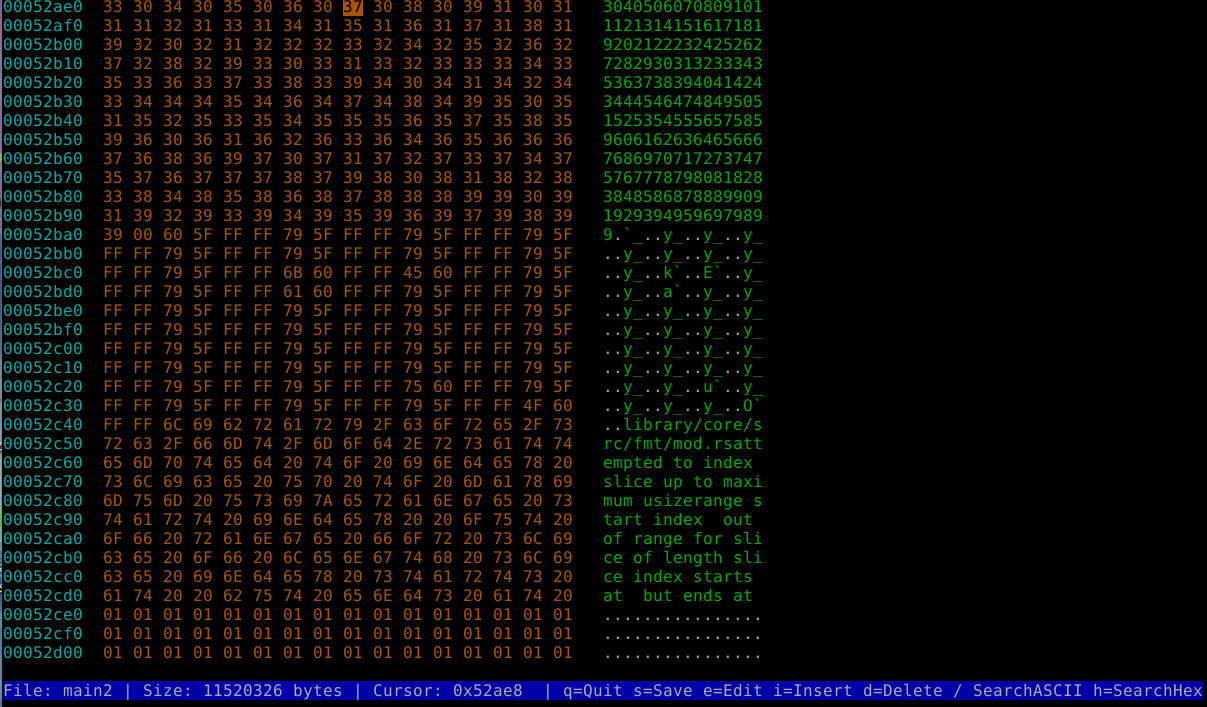
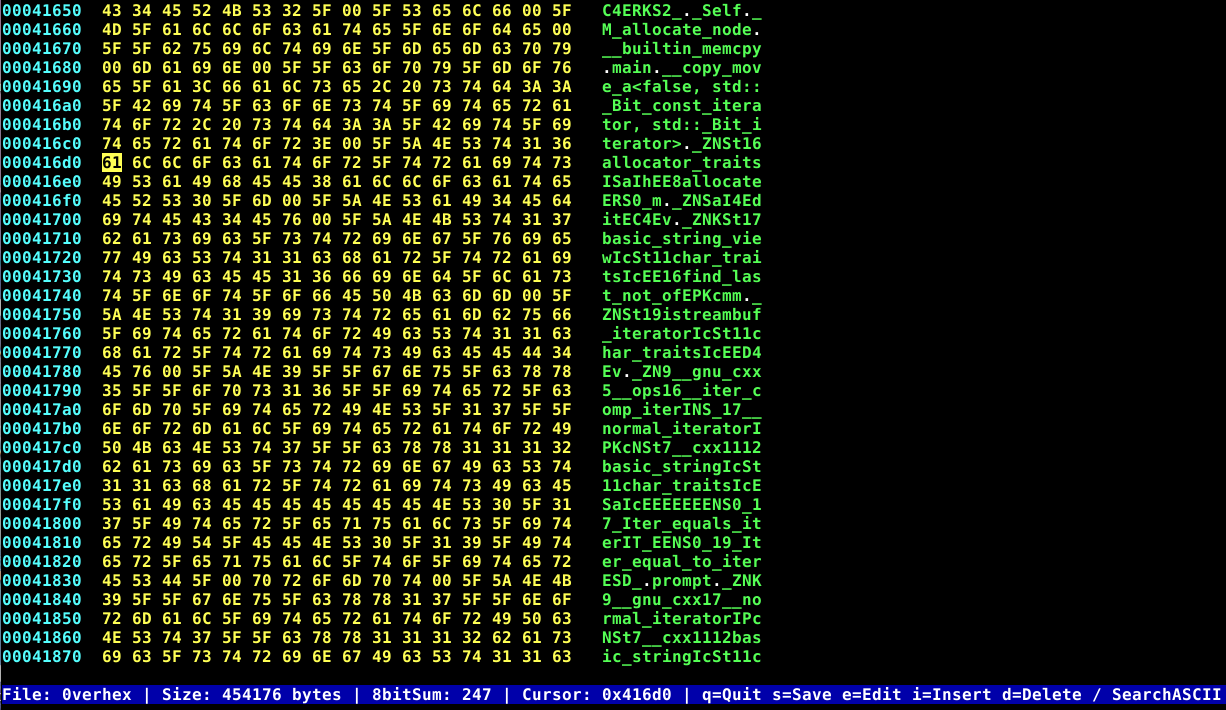
use bold colours

Changed region(s): [[0.0, 0.0, 0.6437, 0.9335], [0.0, 0.9646, 1.0, 0.9958]]

diff --git a/main.cpp b/main.cpp
@@ -297,21 +297,21 @@ void drawHexView(WINDOW *win, const std::vector<unsigned char> &buffer, size_t s
     size_t offset = start + row * bytesPerLine;
     if (offset >= buffer.size()) break;
     // Offset column (cyan)
-    wattron(win, COLOR_PAIR(1));
+    wattron(win, COLOR_PAIR(1) | A_BOLD);
     mvwprintw(win, row, 0, "%08zx", offset);
-    wattroff(win, COLOR_PAIR(1));
+    wattroff(win, COLOR_PAIR(1) | A_BOLD);
     wprintw(win, "  ");
     // Hex bytes (yellow, highlight cursor)
     for (size_t i = 0; i < bytesPerLine; ++i) {
       if (offset + i < buffer.size()) {
         if (offset + i == cursor) {
-          wattron(win, A_REVERSE | COLOR_PAIR(2));
+          wattron(win, A_REVERSE | COLOR_PAIR(2) | A_BOLD);
           mvwprintw(win, row, 10 + i * 3, "%02X", buffer[offset + i]);
-          wattroff(win, A_REVERSE | COLOR_PAIR(2));
+          wattroff(win, A_REVERSE | COLOR_PAIR(2) | A_BOLD);
         } else {
-          wattron(win, COLOR_PAIR(2));
+          wattron(win, COLOR_PAIR(2) | A_BOLD);
           mvwprintw(win, row, 10 + i * 3, "%02X", buffer[offset + i]);
-          wattroff(win, COLOR_PAIR(2));
+          wattroff(win, COLOR_PAIR(2) | A_BOLD);
         }
       } else {
         mvwprintw(win, row, 10 + i * 3, "  ");
@@ -322,13 +322,13 @@ void drawHexView(WINDOW *win, const std::vector<unsigned char> &buffer, size_t s
       if (offset + i < buffer.size()) {
         unsigned char c = buffer[offset + i];
         if (std::isprint(c)) {
-          wattron(win, COLOR_PAIR(3));
+          wattron(win, COLOR_PAIR(3) | A_BOLD);
           mvwaddch(win, row, 10 + bytesPerLine * 3 + 2 + i, c);
-          wattroff(win, COLOR_PAIR(3));
+          wattroff(win, COLOR_PAIR(3) | A_BOLD);
         } else {
-          wattron(win, COLOR_PAIR(4));
+          wattron(win, COLOR_PAIR(4) | A_BOLD);
           mvwaddch(win, row, 10 + bytesPerLine * 3 + 2 + i, '.');
-          wattroff(win, COLOR_PAIR(4));
+          wattroff(win, COLOR_PAIR(4) | A_BOLD);
         }
       }
     }
@@ -339,9 +339,9 @@ void drawHexView(WINDOW *win, const std::vector<unsigned char> &buffer, size_t s
 // Draw status bar (white on blue)
 void drawStatus(WINDOW *status, const std::vector<unsigned char> &buffer, const std::string &filename, size_t cursor, size_t filesize, bool modified) {
   werase(status);
-  wattron(status, COLOR_PAIR(5));
+  wattron(status, COLOR_PAIR(5) | A_BOLD);
   mvwprintw(status, 0, 0, "File: %s | Size: %zu bytes | 8bitSum: %s | Cursor: 0x%zx%s | q=Quit s=Save e=Edit i=Insert d=Delete / SearchASCII h=SearchHex u=Undo r=Redo", filename.c_str(), filesize, std::to_string(checkSum(buffer)).c_str(), cursor, modified ? " [MODIFIED]" : "");
-  wattroff(status, COLOR_PAIR(5));
+  wattroff(status, COLOR_PAIR(5) | A_BOLD);
   wrefresh(status);
 }
 
